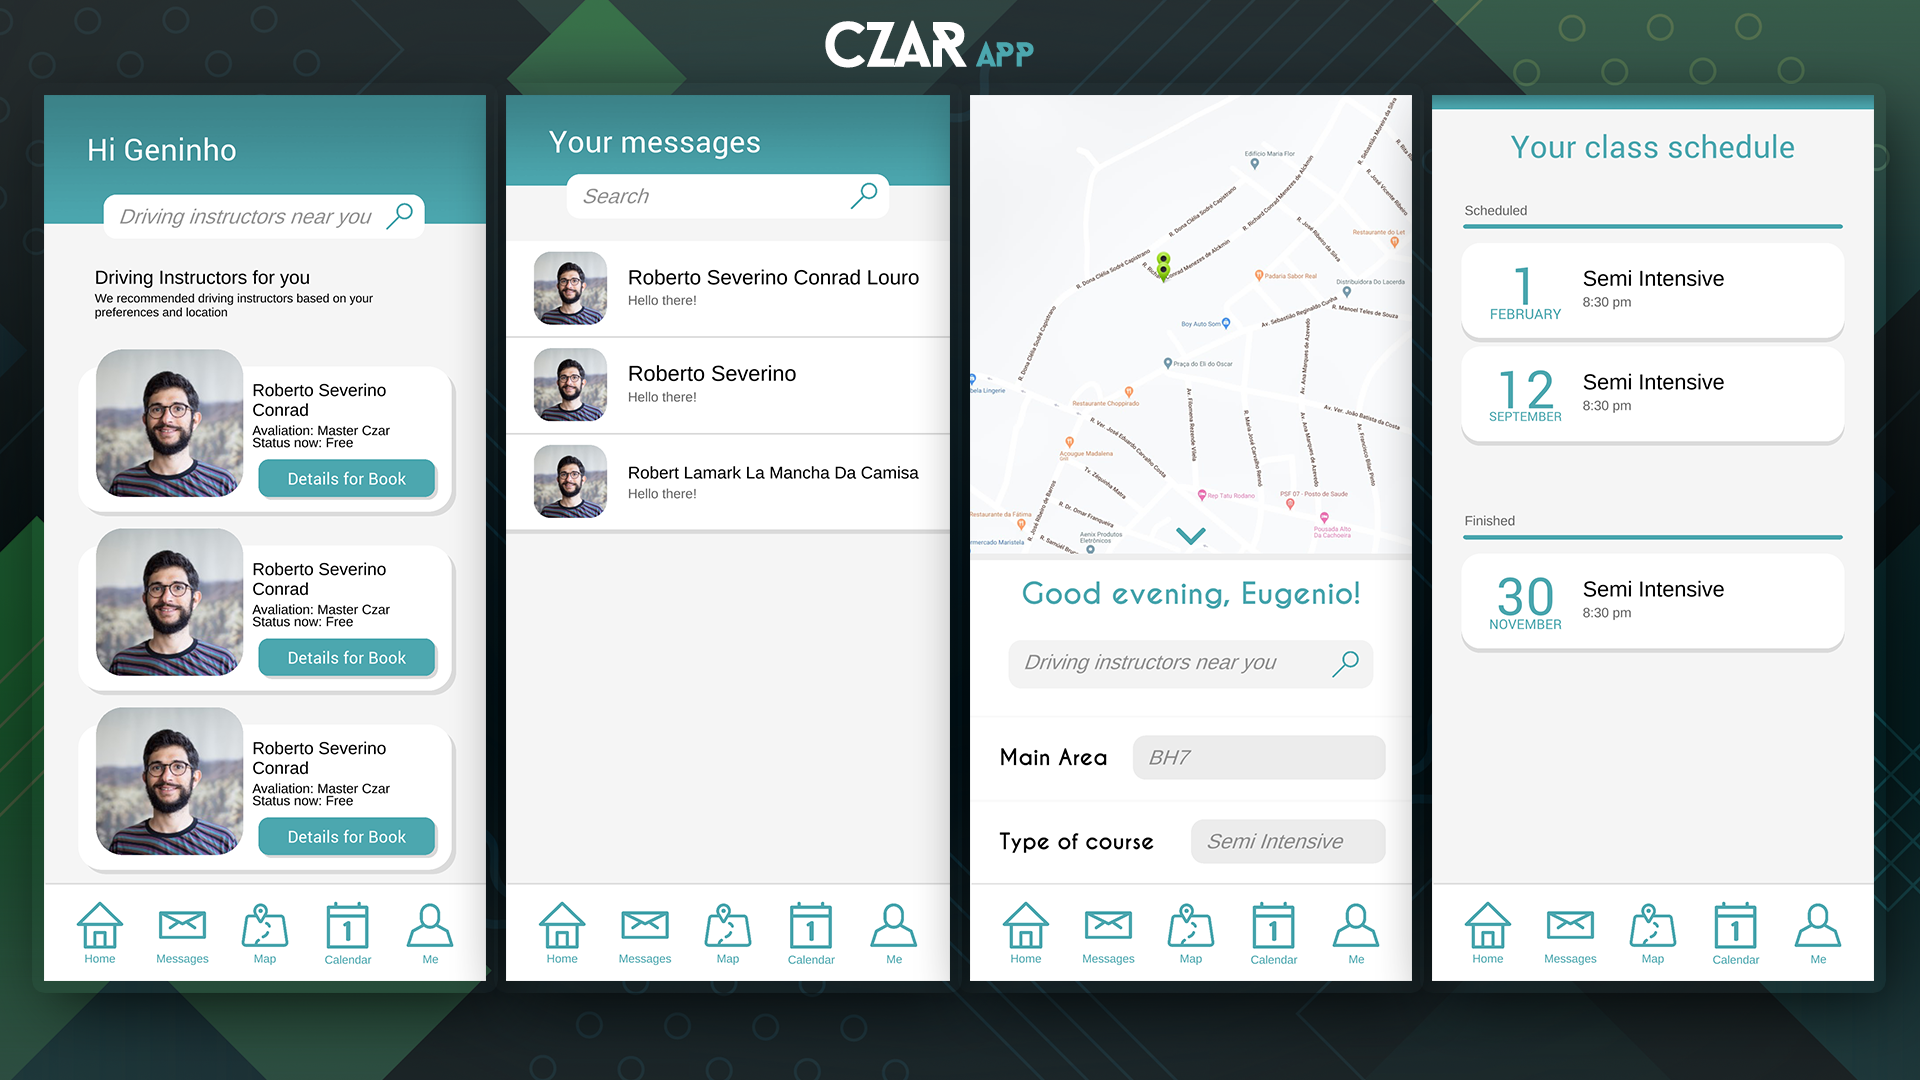
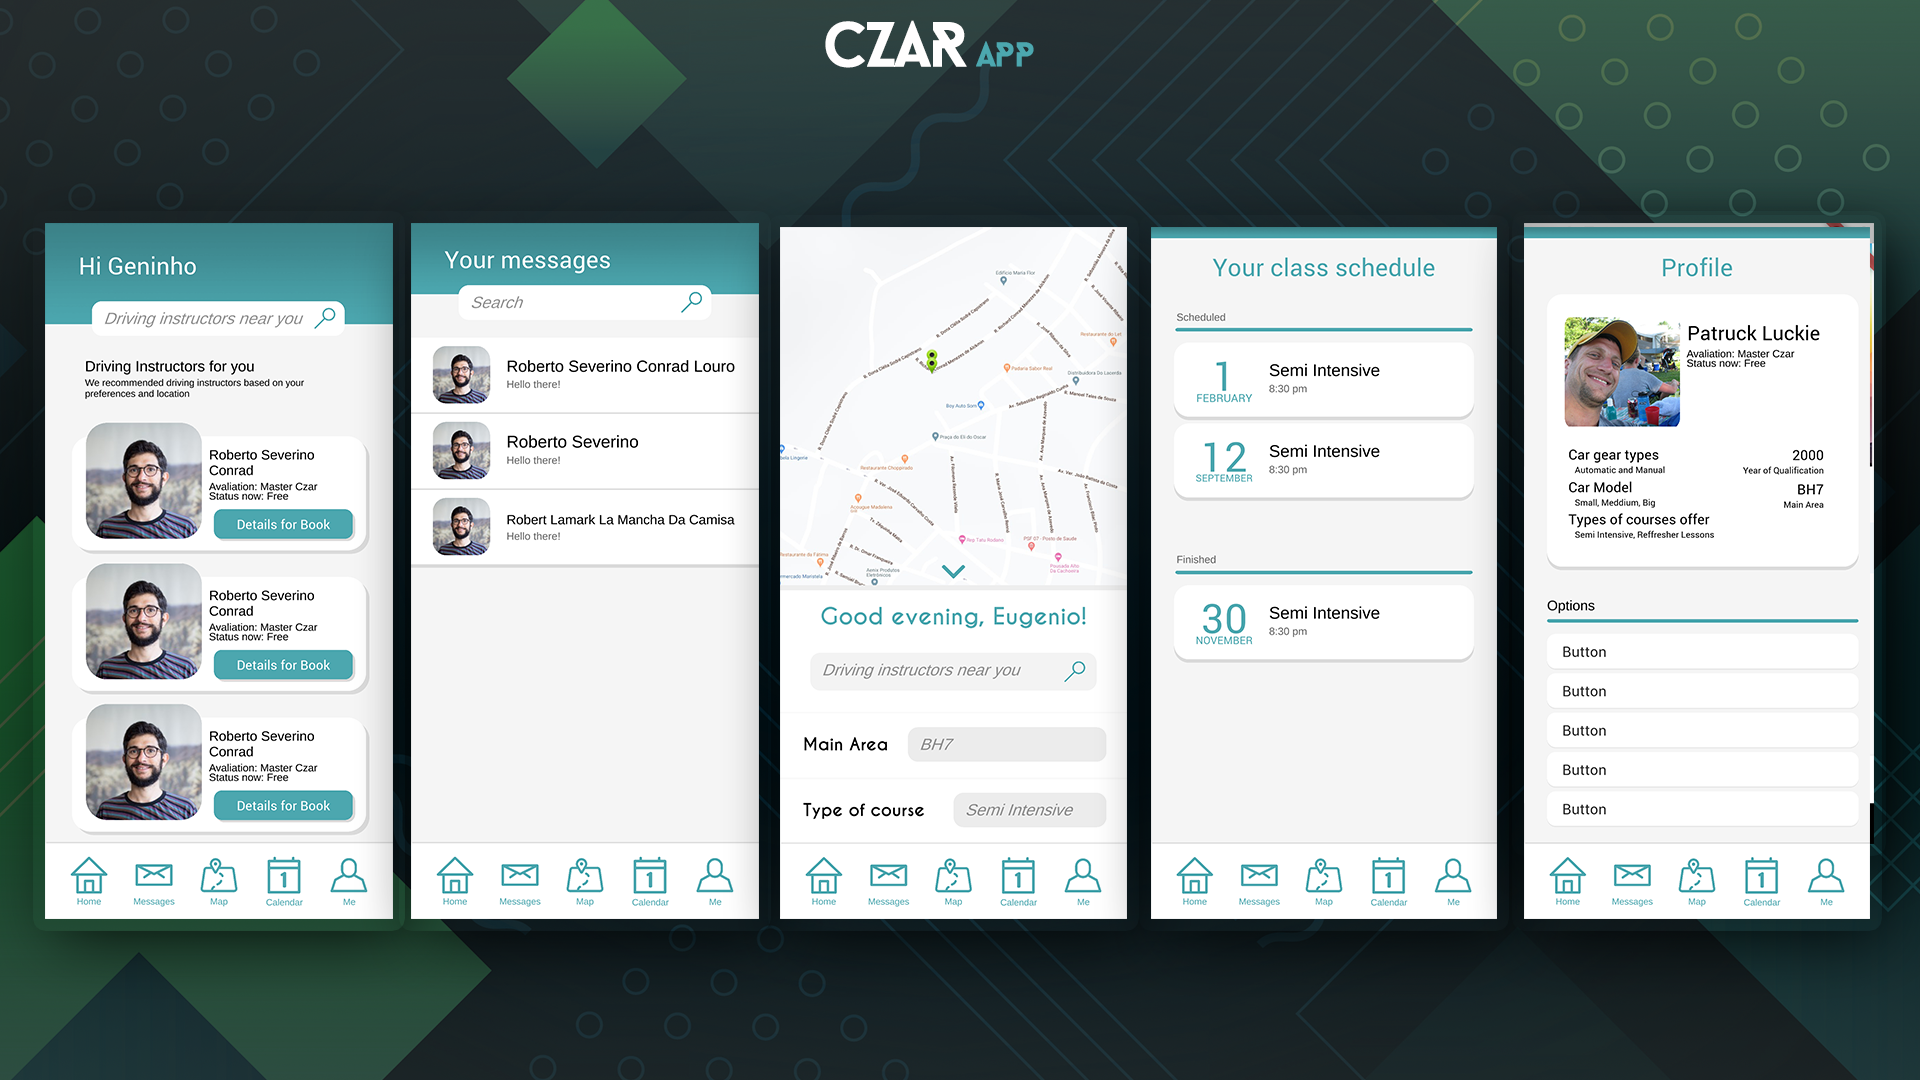
Readme Ajust

diff --git a/README.md b/README.md
@@ -3,8 +3,12 @@
 This project has the initial intention of creating a useful solution for teachers and students of driving school, integrating strategies of successful applications today. Such a solution is well applied to the organization of driving schools on the European continent. 
 
 # Idealization
-First prototype made using Unity software.
+ - First prototype made using Unity software.
 ![CzarAppScreens](https://github.com/RuanPS01/CzarApp/blob/master/OTHER_FILES/Images/CzarAppScreens.png?raw=true)
+
+
+ - Actual prototype using Flutter.
+![CzarAppScreensFlutter](https://github.com/RuanPS01/CzarApp/blob/master/OTHER_FILES/Images/CzarAppScreensFlutter.png?raw=true)
 
 ## Project technologies
  - Dart + Flutter
